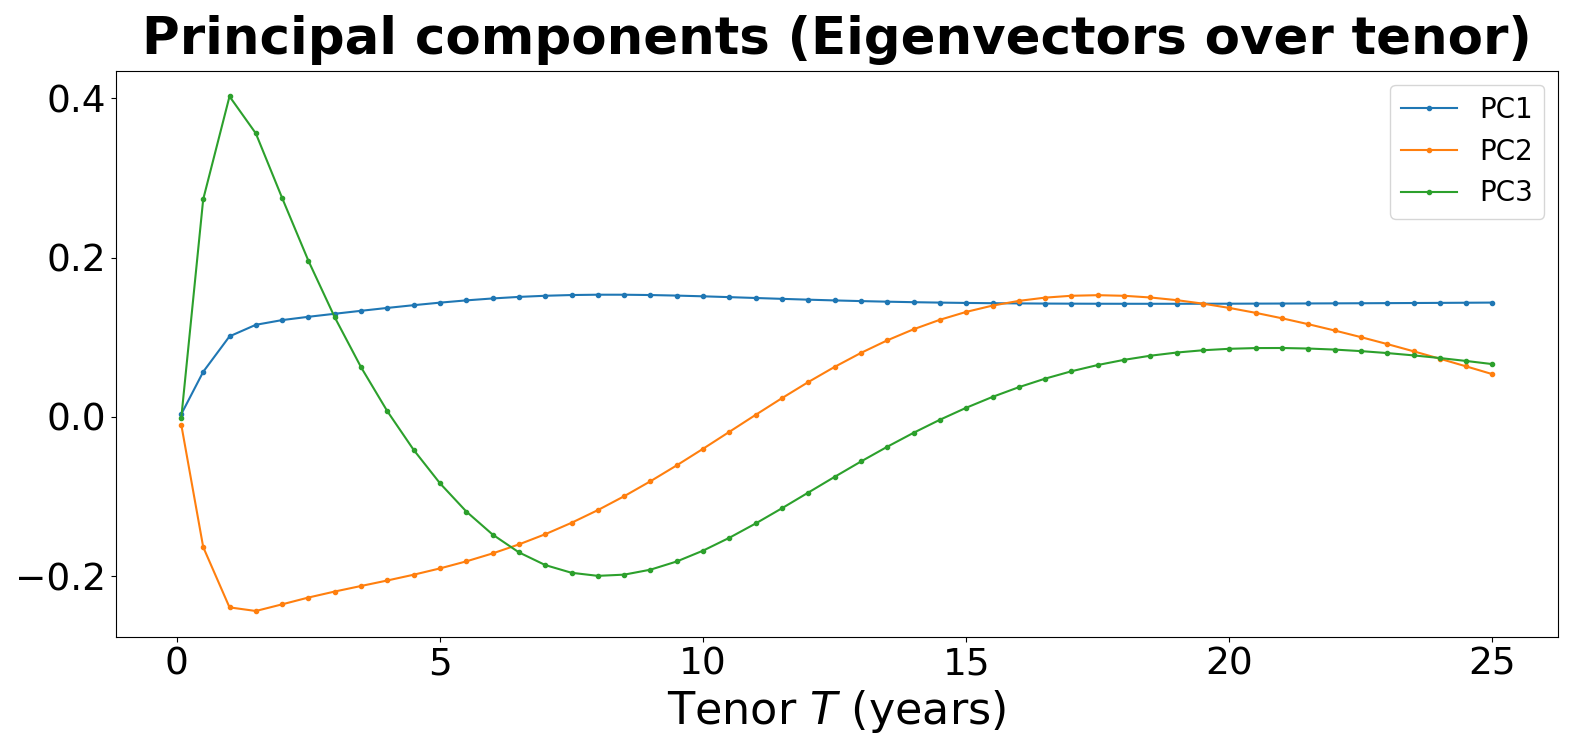
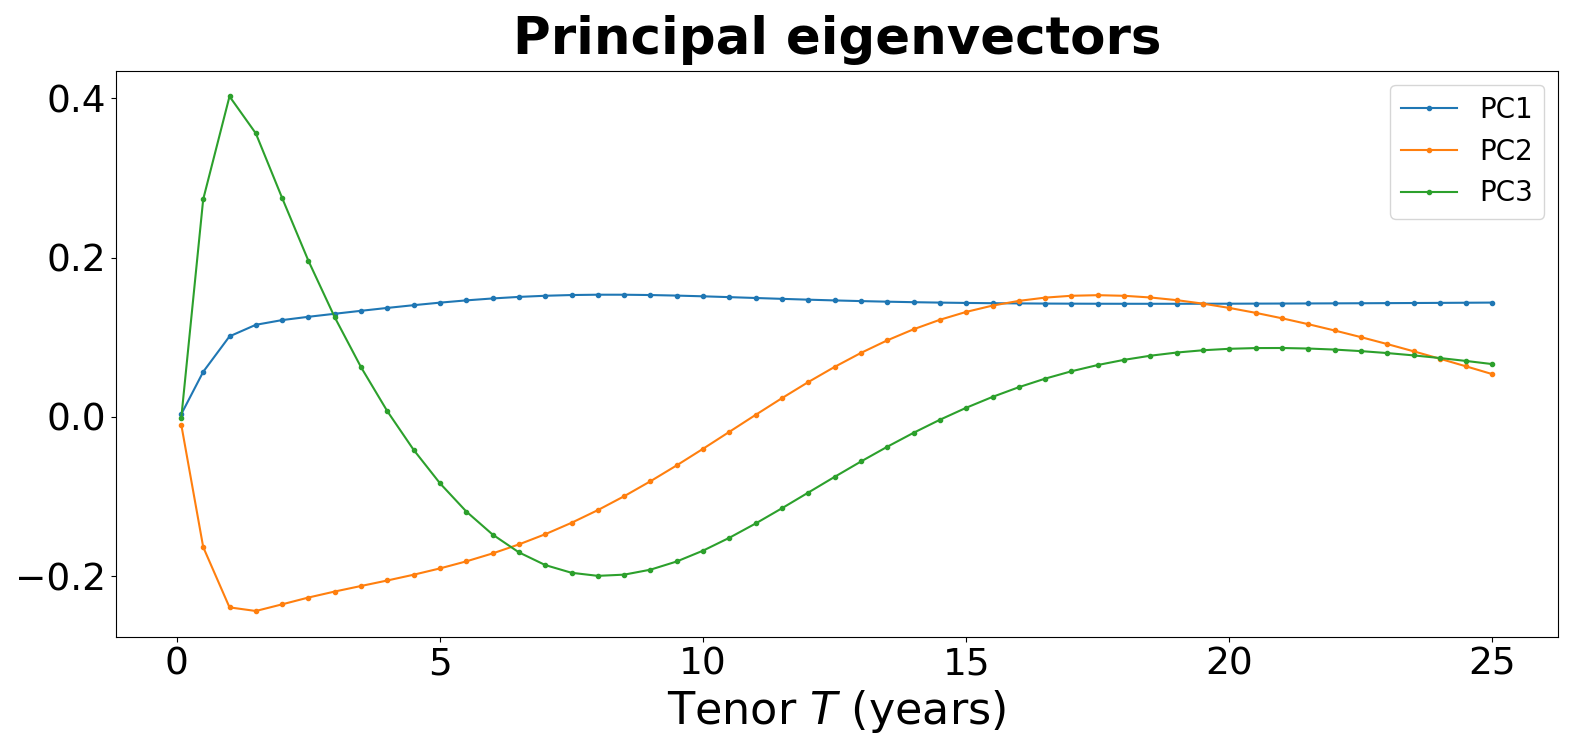
edited the heading

Changed region(s): [[0.0935, 0.0, 0.9968, 0.092]]

diff --git a/Chapter 3/pca/drift_calculation_(run_script).py b/Chapter 3/pca/drift_calculation_(run_script).py
@@ -67,7 +67,7 @@ H_IN = H_PX / DPI
 fig, ax = plt.subplots(figsize=(W_IN, H_IN), dpi=DPI)
 for i in range(princ_comp.shape[1]):
     ax.plot(Tau, princ_comp[:, i], marker='.', label=f'PC{i+1}')
-ax.set_title('Principal components (Eigenvectors over tenor)', fontsize=37, fontweight="bold", pad=12)
+ax.set_title('Principal eigenvectors', fontsize=37, fontweight="bold", pad=12)
 ax.set_xlabel(r'Tenor $T$ (years)', fontsize=32)
 ax.legend(fontsize=20)
 ax.tick_params(axis='both', which='major', labelsize=27)
